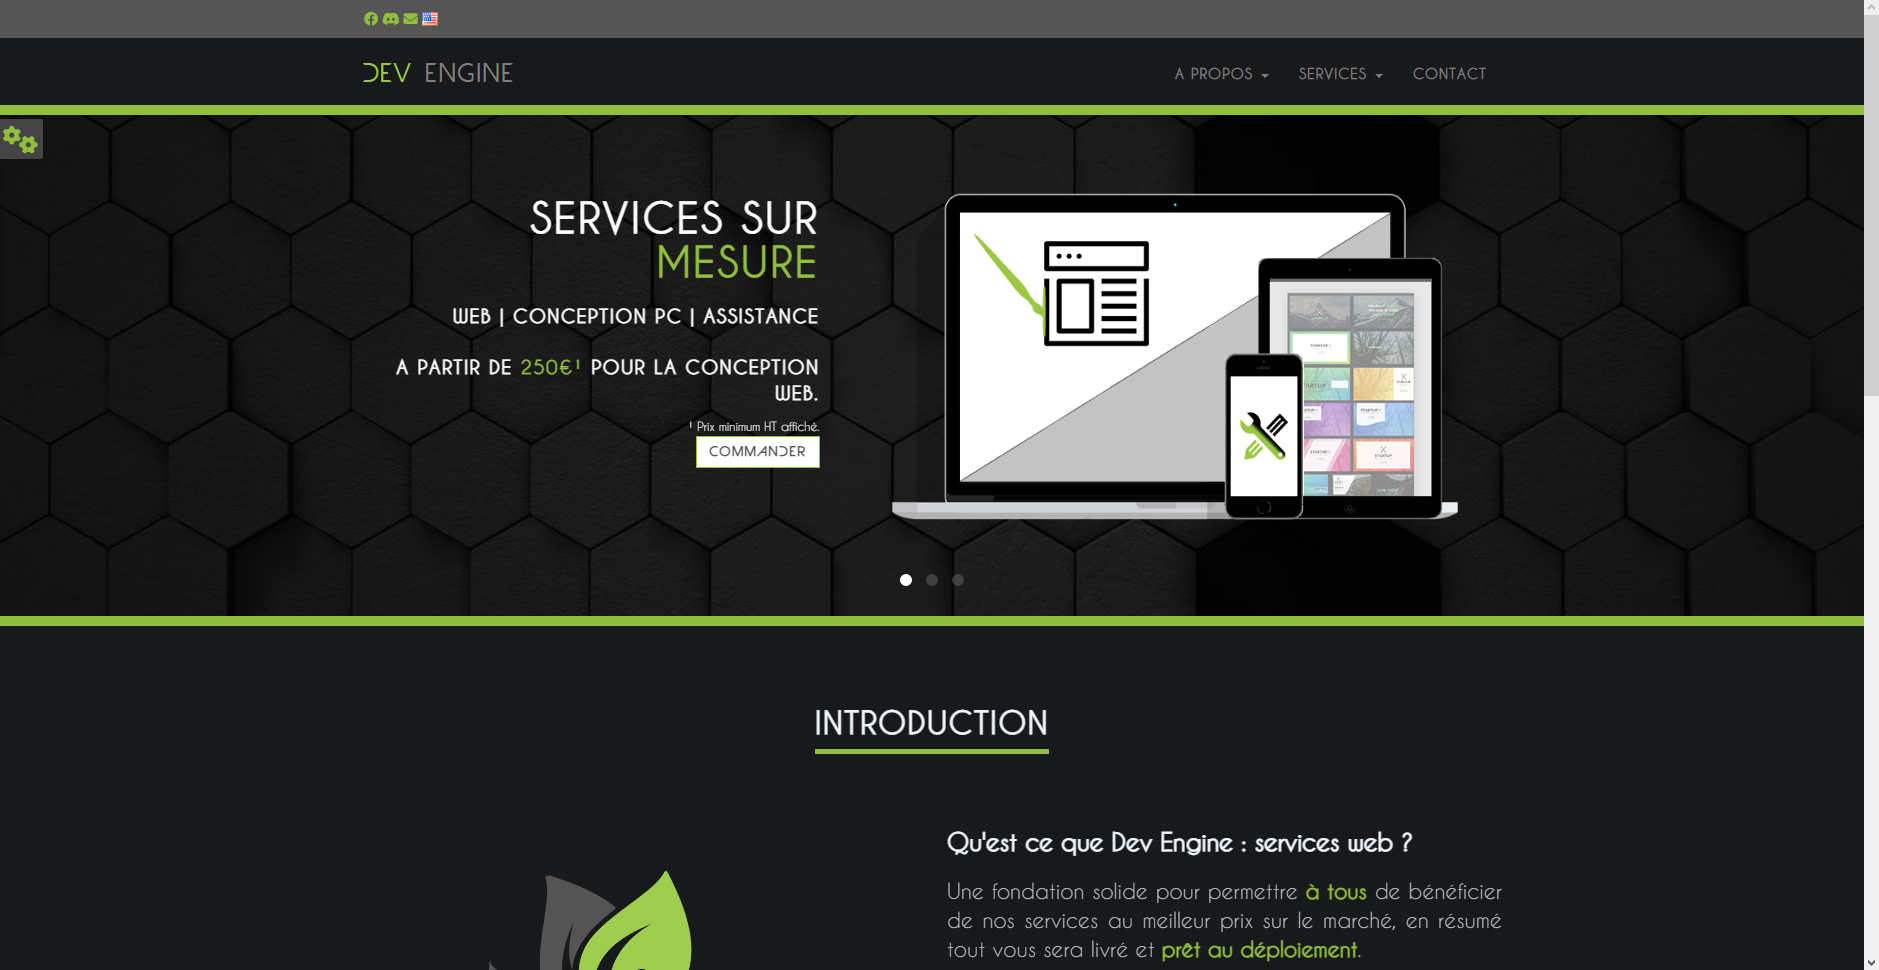
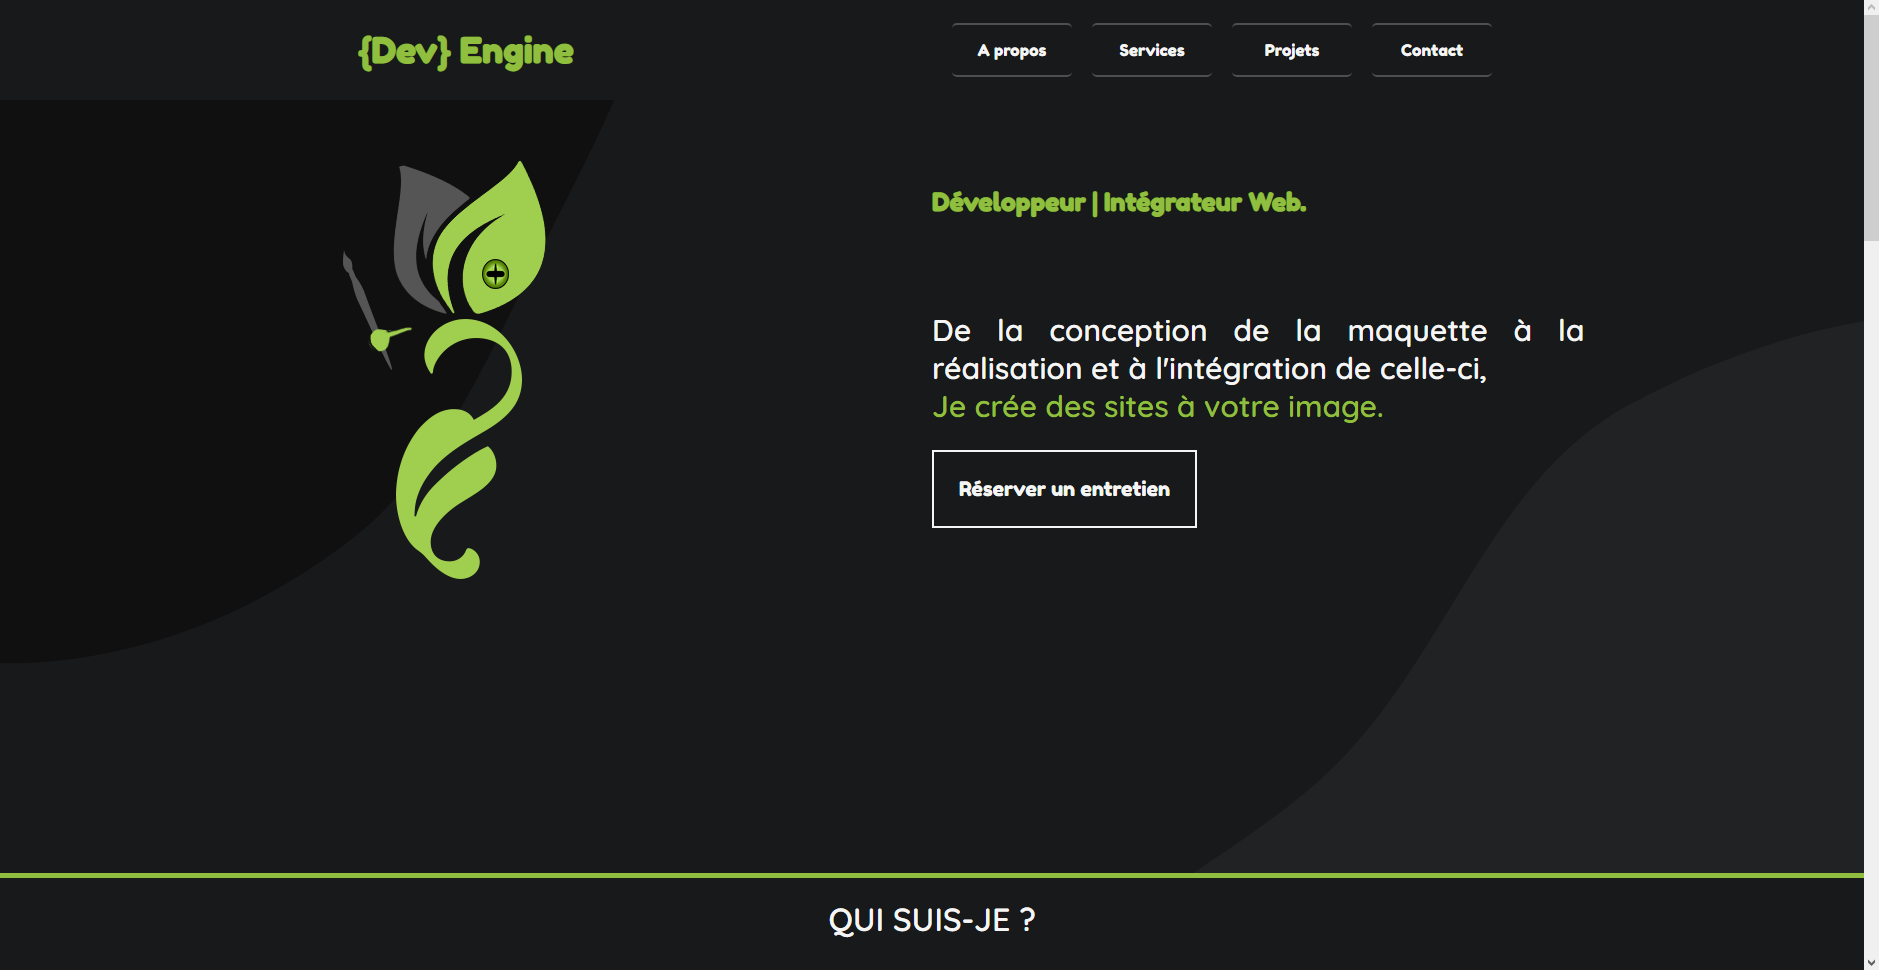
Modifications textuel et projets

diff --git a/src/components/Projects.jsx b/src/components/Projects.jsx
@@ -44,7 +44,7 @@ const ProjetHover = styled.a`
   color: ${White};
   padding: 10px;
   transition: all 0.2s ease-in;
-  &:hover>h1{
+  &:hover > h1 {
     color: ${PrimaryColor};
     transition: all 0.2s ease-in;
   }
@@ -62,20 +62,17 @@ const Description = styled.p`
   text-align: justify;
 `;
 
-
 export const Projects = () => {
   return (
     <Container id="Projects">
       <Title>Mes projets</Title>
       <Bloc>
         <Projet>
-          <ProjetHover href="https://www.devengine.net/fr_FR" target="_blank">
+          <ProjetHover href="/">
             <Image src="portfolio/img/de.png" />
             <TitleProjet>Dev Engine</TitleProjet>
             <Description>
-              Envie de fonder mon entreprise dans le développement web, j'ai moi
-              même fais mon site avec l'aide d'un collaborateur pour un projet
-              commun, je vous invite à aller le visiter.
+              Tout simplement mon portfolio sous React avec aussi StyledComponents.
             </Description>
           </ProjetHover>
         </Projet>
@@ -84,25 +81,35 @@ export const Projects = () => {
             <Image src="portfolio/img/acdo.png" />
             <TitleProjet>Aux Corbeaux d'Odin</TitleProjet>
             <Description>
-              Site vitrine d'un bar/taverne ayant pour activité le lancer de haches (si si, et c'est top pour se défouler). Technos utilisées pour celui ci : HTML | CSS | JS.
+              Site vitrine d'un bar/taverne ayant pour activité le lancer de
+              haches (si si, et c'est top pour se défouler). Technos utilisées
+              pour celui ci : HTML | CSS | JS.
             </Description>
           </ProjetHover>
         </Projet>
         <Projet>
-          <ProjetHover href="https://gringed.github.io/e-commerce_Project/" target="_blank">
+          <ProjetHover
+            href="https://gringed.github.io/e-commerce_Project/"
+            target="_blank"
+          >
             <Image src="portfolio/img/mooney.png" />
-            <TitleProjet>Mooney</TitleProjet>
+            <TitleProjet>Mooney (en cours de développement)</TitleProjet>
             <Description>
-              Prototype de site e-commerce sous React, actuellement en phase de développement je rajouterais les technos utilisées par la suite.
+              Prototype de site e-commerce sous React, actuellement en phase de
+              développement j'utilise les technos suivantes : React | Node.js | MongoDB | Express | Redux | StyledComponents.
             </Description>
           </ProjetHover>
         </Projet>
         <Projet>
-          <ProjetHover href="https://gringed.github.io/ReseauSocialV2" target="_blank">
-            <Image src="portfolio/img/se.png" />
-            <TitleProjet>Social Engine (BETA)</TitleProjet>
+          <ProjetHover
+            href="https://devengine.net/projects/Taska/"
+            target="_blank"
+          >
+            <Image src="portfolio/img/tk.png" />
+            <TitleProjet>Taska</TitleProjet>
             <Description>
-              Un réseau social sous React avec comme autres technos : NodeJs | Express | Redux | MongoDB | Sass. (Repris du projet finale de ma formation)
+              Site vitrine d'un bar café situé à Genève. Technos utilisées
+              pour celui ci : HTML | CSS | JS.
             </Description>
           </ProjetHover>
         </Projet>

diff --git a/public/index.html b/public/index.html
@@ -17,7 +17,7 @@
     <link rel="manifest" href="%PUBLIC_URL%/manifest.json" />
     
     
-    <title>Développeur | Intégrateur Web - Gringed</title>
+    <title>Développeur | Intégrateur Web - Dev Engine</title>
   </head>
   <body>
     <noscript>You need to enable JavaScript to run this app.</noscript>

diff --git a/src/components/Header.jsx b/src/components/Header.jsx
@@ -94,7 +94,7 @@ export const Header = () => {
   };
   return (
     <Navbar>
-      <Title href="#Top">Gring{'{ed}'}</Title>
+      <Title href="#Top">{'{Dev}'} Engine</Title>
       <Button
         id="basic-button"
         aria-controls={open ? 'basic-menu' : undefined}
